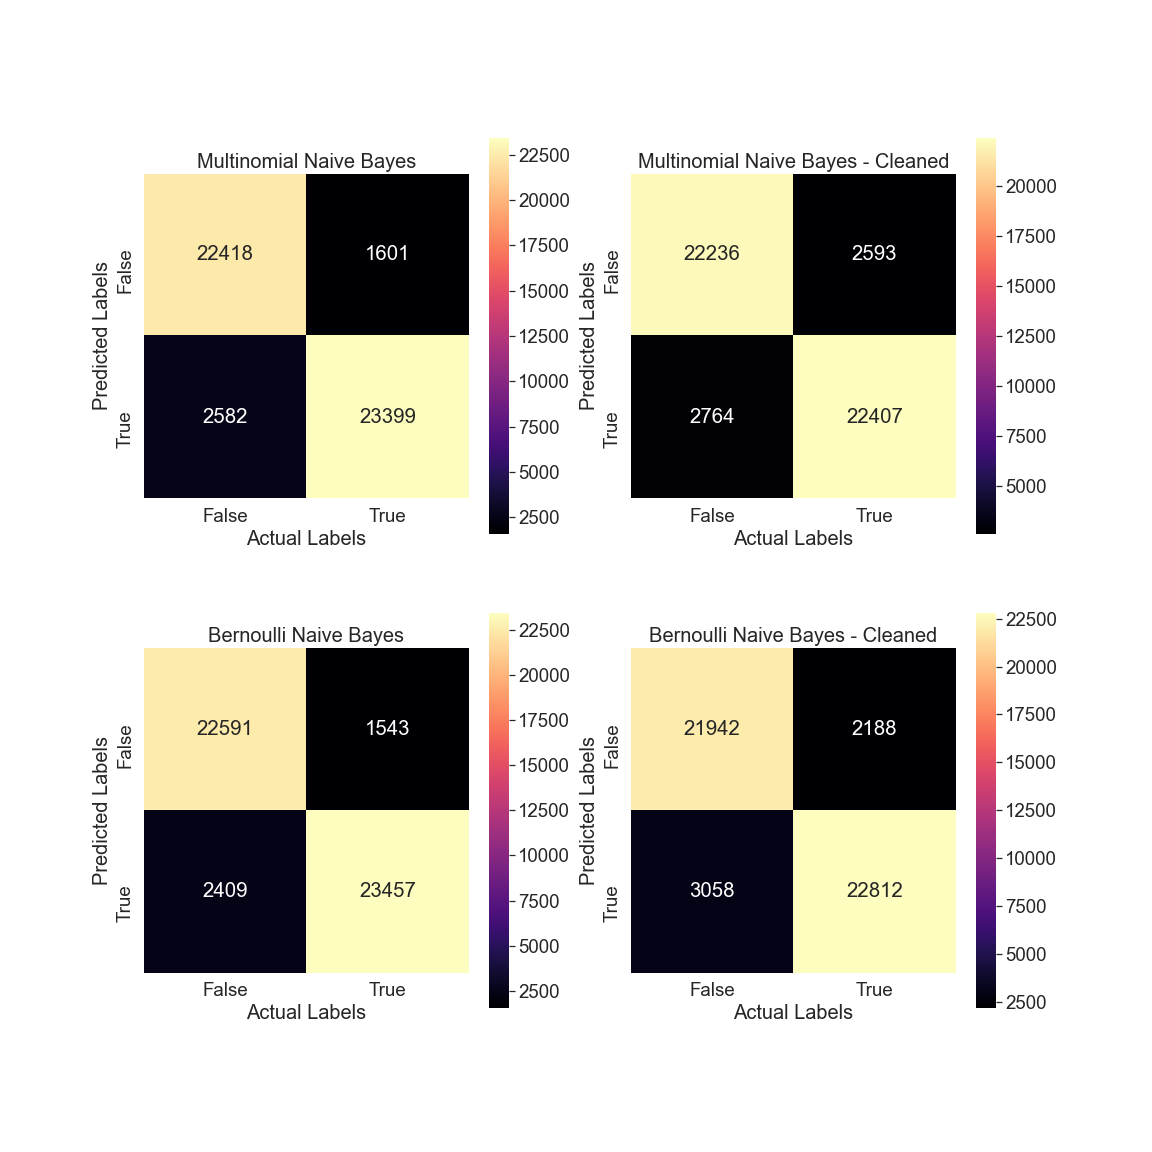
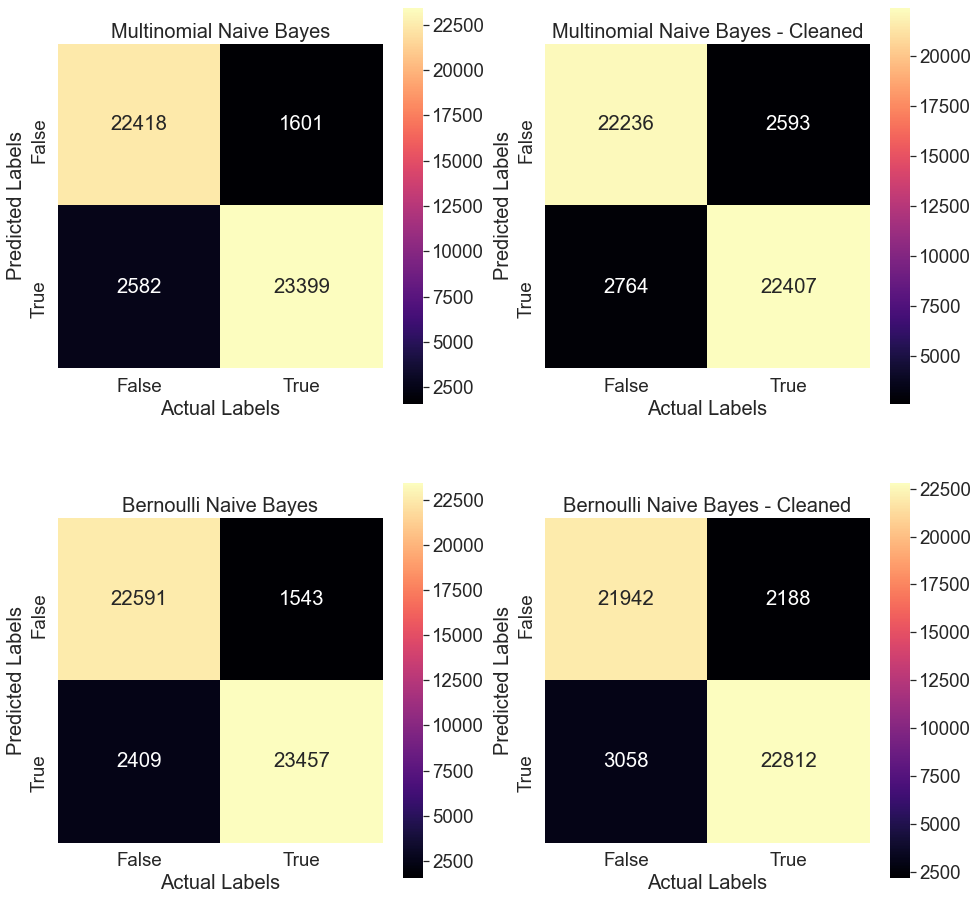
tweaking picture sizes for conf mat and misclass wc

diff --git a/README.md b/README.md
@@ -14,18 +14,36 @@
 __[quickmeme](https://www.google.com/url?sa=i&url=http%3A%2F%2Fwww.quickmeme.com%2Fmeme%2F3jz8&psig=AOvVaw0pZpkhxvESUZWK5VQ8VAIn&ust=1607139073503000&source=images&cd=vfe&ved=0CAIQjRxqFwoTCPiHzumxs-0CFQAAAAAdAAAAABAP)__
 
 ## Table of Contents
-1. [Background](#Background)
-2. [Data](#Data)
-3. [Analysis](#Analysis)
-    * [](#)
-4. [Future Ideas](#)
+- [What's So Funny? - Humor Text Classifier](#whats-so-funny---humor-text-classifier)
+      - [Erin Cox](#erin-cox)
+      - [https://github.com/coxem14/Capstone-2](#httpsgithubcomcoxem14capstone-2)
+  - [Table of Contents](#table-of-contents)
+  - [Background - NEEDS UPDATED](#background---needs-updated)
+  - [Data - NEEDS UPDATED](#data---needs-updated)
+  - [EDA](#eda)
+    - [Initial Inspection of Dataset](#initial-inspection-of-dataset)
+    - [Word Clouds](#word-clouds)
+  - [Train, Test, Split](#train-test-split)
+  - [Model Selection](#model-selection)
+    - [Pipelines](#pipelines)
+    - [Fitting the Models](#fitting-the-models)
+    - [Multinomial vs Bernoulli Naive Bayes](#multinomial-vs-bernoulli-naive-bayes)
+    - [Random Forest Classifier](#random-forest-classifier)
+    - [Multilayer Perceptron](#multilayer-perceptron)
+  - [Problem Words](#problem-words)
+    - [KMeans](#kmeans)
+  - [Results from cohort submissions:](#results-from-cohort-submissions)
+    - [MLP](#mlp)
+    - [Bernoulli NB](#bernoulli-nb)
+  - [Final Thoughts](#final-thoughts)
+    - [References](#references)
 
 
-## Background
+## Background - NEEDS UPDATED
 
 Intro for why text classification is useful and in particular applications for humor detection
 
-## Dataset
+## Data - NEEDS UPDATED
 
 https://www.kaggle.com/moradnejad/200k-short-texts-for-humor-detection
 
@@ -33,11 +51,9 @@ https://arxiv.org/abs/2004.12765 ColBERT: Using BERT Sentence Embedding for Humo
 
 ## EDA
 
-### Initial Inspection
+### Initial Inspection of Dataset
 
-Brief summary of what dataset looked like, steps taken to clean, and final dataset I moved forward with
-
-After loading the dataset into Jupyter Notebook using Pandas, I started my analysis by inspecting the data to ensure they were as expected. Below is an example of the first 7 rows of the dataframe.
+After loading the dataset into Jupyter Notebook using Pandas, I started my analysis by inspecting the data to ensure they were as expected.
 
 <p align = 'center'>
     <img src = 'https://github.com/coxem14/Capstone-2/blob/main/images/texts_df_head.png'>
@@ -54,6 +70,8 @@ In all, there were 200k non-null rows. The text column contained short text stri
 <p align = 'center'>
     <img src = 'https://github.com/coxem14/Capstone-2/blob/main/images/texts_humor_value_counts.png'>
 </p>
+
+[Back to Top](#Table-of-Contents)
 
 ### Word Clouds
 
@@ -99,6 +117,8 @@ To get a visualization of what words were used most frequently in the humorous t
     
     return cleaned_corpus
 ```
+[Back to Top](#Table-of-Contents)
+
 I also thought it would be fun to play around with the display of the word clouds, so I masked the colors with some images. The code I referenced to do this can be found __[here](https://amueller.github.io/word_cloud/auto_examples/masked.html#sphx-glr-auto-examples-masked-py)__.
 
 nltk's word_tokenize
@@ -131,6 +151,8 @@ Serious texts patterns seem to be:
 * Article/Blog post titles
 * Donald Trump comes up a lot
 
+[Back to Top](#Table-of-Contents)
+
 ## Train, Test, Split
 
 ```
@@ -149,7 +171,7 @@ The resulting training datasets had 150,000 texts, while the testing datasets ha
 
 I wanted to build a variety of models to see which algorithms performed the best classifications and predictions. I used sklearn for all the models.
 
-The primary supervised learning models I used are as follows:
+The primary models I built are as follows:
 * Multinomial Naive Bayes
 * Bernoulli Naive Bayes
 
@@ -168,6 +190,8 @@ For each model, I used the TfidfVectorizer to featurize the texts. I found that 
 
 For the Naive Bayes models, I also used the default settings (alpha=1.0).
 
+[Back to Top](#Table-of-Contents)
+
 ### Fitting the Models
 
 I wanted to see how the models performed with cleaned and uncleaned data inputs, so I ran X_train and X_test through the corpus cleaner function prior to fitting and predicting, respectively.
@@ -184,9 +208,13 @@ Bernoulli Likelihood - The probability of a word given humorous is the probabili
 
 To determine which Naive Bayes model performed the best, I fit each model with X_train and y_train, got the predictions, and compared accuracy, precision, recall scores, confusion matrices, and ROC plots.
 
+[Back to Top](#Table-of-Contents)
+
 <p align = 'center'>
     <img src = 'https://github.com/coxem14/Capstone-2/blob/main/images/confusion_matrices.png'>
 </p>
+
+Overall, the cost of thinking something is humorous when it is really serious (false positive) is higher than thinking something is serious when is meant to be humorous (false negative). I want to chose the model with the most true positives, and the least false positives.
 
 ```
 Model: Multinomial Naive Bayes
@@ -214,11 +242,11 @@ The model with the highest precision: Bernoulli Naive Bayes
 The model with the highest recall: Bernoulli Naive Bayes
 ```
 
-The Bernoulli Naive Bayes model performed better across the board than Multinomial Naive Bayes. The cleaned versions performed worse overall. 
+The Bernoulli Naive Bayes model performed better across the board than Multinomial Naive Bayes. The cleaned versions performed worse than their 'unclean' counterparts. 
 
-Overall, the cost of thinking something is humorous when it is really serious (false positive) is higher than thinking something is serious when is meant to be humorous (false negative). While accuracy is good, because I want to limit the number of false positives, precision would be the best metric to judge the performance of the model.
+While accuracy is good, because I want to limit the number of false positives, precision would be the best metric to judge the performance of the model.
 
-An even better way, though, would be to plot the receiver operating characteristic (ROC) curve and calculate the area under the curve. The AUC score will be close to 0.5 if the classifier isn't much better than random guessing, while it will be 1.0 for perfect classification.
+To get a better visual of the performance of the models, I plotted the receiver operating characteristic (ROC) curve and calculated the area under the curve (AUC). The AUC score will be close to 0.5 if the classifier isn't much better than random guessing, while it will be 1.0 for perfect classification.
 
 <p align = 'center'>
     <img src = 'https://github.com/coxem14/Capstone-2/blob/main/images/NB_ROC.png'>
@@ -233,6 +261,8 @@ The ROC AUC score for the model is 0.977.
 
 The model with the largest AUC: Bernoulli Naive Bayes
 ```
+
+[Back to Top](#Table-of-Contents)
 
 ### Random Forest Classifier
 
@@ -268,6 +298,8 @@ The highest accuracy was with less than 2000 trees.
 </p>
 
 Accuracy increased as max depth increased - makes sense given that decision trees are prone to overfitting if left to make as many splits as they please...
+
+[Back to Top](#Table-of-Contents)
 
 Using the boundaries I explored above, I decided to try using RandomizedSearchCV to see if it could find a better set of parameters.
 
@@ -307,6 +339,8 @@ The ROC AUC score for the model is 0.968.
 ```
 
 Much better, still not quite on par with Naive Bayes. I think there is still room to improve, but RF is so much more computationally expensive for this type of classification, I don't think it is worth it.
+
+[Back to Top](#Table-of-Contents)
 
 ### Multilayer Perceptron
 
@@ -541,7 +575,7 @@ CNN/RNN
 Things to look into: n-grams
 
 ### References
-https://amueller.github.io/word_cloud/auto_examples/masked.html#sphx-glr-auto-examples-masked-py
+[amueller.github.io/word_cloud](https://amueller.github.io/word_cloud/auto_examples/masked.html#sphx-glr-auto-examples-masked-py)
 
 
 [Back to Top](#Table-of-Contents)
